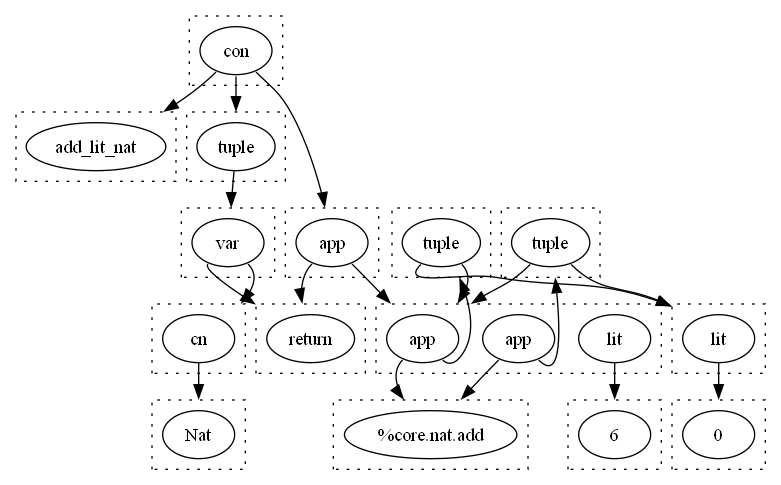
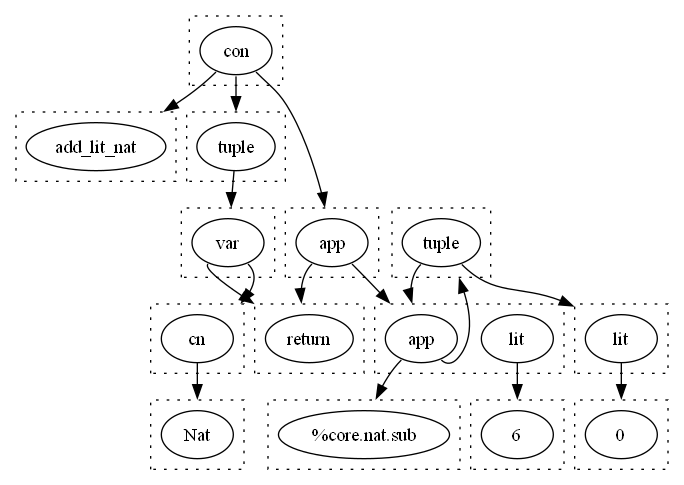
add core rules

Changed region(s): [[0.0307, 0.0309, 0.9825, 0.9897], [0.0307, 0.3711, 0.0614, 0.4021]]

diff --git a/src/rules/core.rs b/src/rules/core.rs
@@ -1,10 +1,7 @@
 use crate::rules::*;
 
 pub fn rules() -> Vec<Rewrite<Mim, MimAnalysis>> {
-    let mut rules = Vec::new();
-
-    rules.push(add0());
-    rules.push(commute_add());
+    let rules = vec![add0(), sub0(), mul0(), mul1(), commute_add(), commute_mul()];
 
     rules
 }
@@ -16,6 +13,27 @@ fn add0() -> Rewrite<Mim, MimAnalysis> {
     Rewrite::new("add0", pat, outpat).unwrap()
 }
 
+fn sub0() -> Rewrite<Mim, MimAnalysis> {
+    let pat: Pattern<Mim> = "(app %core.nat.sub (tuple ?e (lit 0)))".parse().unwrap();
+    let outpat: Pattern<Mim> = "?e".parse().unwrap();
+
+    Rewrite::new("sub0", pat, outpat).unwrap()
+}
+
+fn mul0() -> Rewrite<Mim, MimAnalysis> {
+    let pat: Pattern<Mim> = "(app %core.nat.mul (tuple (lit 0) ?e))".parse().unwrap();
+    let outpat: Pattern<Mim> = "(lit 0)".parse().unwrap();
+
+    Rewrite::new("mul0", pat, outpat).unwrap()
+}
+
+fn mul1() -> Rewrite<Mim, MimAnalysis> {
+    let pat: Pattern<Mim> = "(app %core.nat.mul (tuple (lit 1) ?e))".parse().unwrap();
+    let outpat: Pattern<Mim> = "?e".parse().unwrap();
+
+    Rewrite::new("mul1", pat, outpat).unwrap()
+}
+
 fn commute_add() -> Rewrite<Mim, MimAnalysis> {
     let pat: Pattern<Mim> = "(app %core.nat.add (tuple ?a ?b))".parse().unwrap();
     let outpat: Pattern<Mim> = "(app %core.nat.add (tuple ?b ?a))".parse().unwrap();
@@ -23,11 +41,34 @@ fn commute_add() -> Rewrite<Mim, MimAnalysis> {
     Rewrite::new("commute_add", pat, outpat).unwrap()
 }
 
-pub fn fold_core_add(egraph: &mut EGraph<Mim, MimAnalysis>, enode: &Mim) -> Option<Mim> {
+fn commute_mul() -> Rewrite<Mim, MimAnalysis> {
+    let pat: Pattern<Mim> = "(app %core.nat.mul (tuple ?a ?b))".parse().unwrap();
+    let outpat: Pattern<Mim> = "(app %core.nat.mul (tuple ?b ?a))".parse().unwrap();
+
+    Rewrite::new("commute_mul", pat, outpat).unwrap()
+}
+
+// TODO: fold_core should be further split up into:
+// fold_nat
+//  -> fold_nat_lit
+//  -> fold_nat_zero
+// fold_icmp
+//  -> fold_
+//  -> fold_
+//
+// etc.
+pub fn fold_core(egraph: &mut EGraph<Mim, MimAnalysis>, enode: &Mim) -> Option<Mim> {
+    if let Some(folded) = fold_nat(egraph, enode) {
+        return Some(folded);
+    }
+
+    None
+}
+
+fn fold_nat(egraph: &mut EGraph<Mim, MimAnalysis>, enode: &Mim) -> Option<Mim> {
     let c = |id: &Id| egraph[*id].data.clone();
     if let App([callee, arg]) = enode
         && let Some(Symbol(s)) = c(callee)
-        && s == "%core.nat.add"
         && let Some(Tuple(t)) = c(arg)
         && let [t1, t2] = &*t
         && let Some(Lit(l1)) = c(t1)
@@ -35,7 +76,12 @@ pub fn fold_core_add(egraph: &mut EGraph<Mim, MimAnalysis>, enode: &Mim) -> Opti
         && let Some(Num(n1)) = c(&l1[0])
         && let Some(Num(n2)) = c(&l2[0])
     {
-        return Some(Num(n1 + n2));
+        match s.as_str() {
+            "%core.nat.add" => return Some(Num(n1 + n2)),
+            "%core.nat.sub" => return Some(Num(n1 - n2)),
+            "%core.nat.mul" => return Some(Num(n1 * n2)),
+            _ => return None,
+        }
     }
 
     None

diff --git a/src/rules/mod.rs b/src/rules/mod.rs
@@ -47,7 +47,7 @@ impl Analysis<Mim> for MimAnalysis {
     }
 
     fn make(egraph: &mut EGraph<Mim, Self>, enode: &Mim) -> Self::Data {
-        if let Some(folded) = fold_core_add(egraph, enode) {
+        if let Some(folded) = fold_core(egraph, enode) {
             return Some(folded);
         }
 
